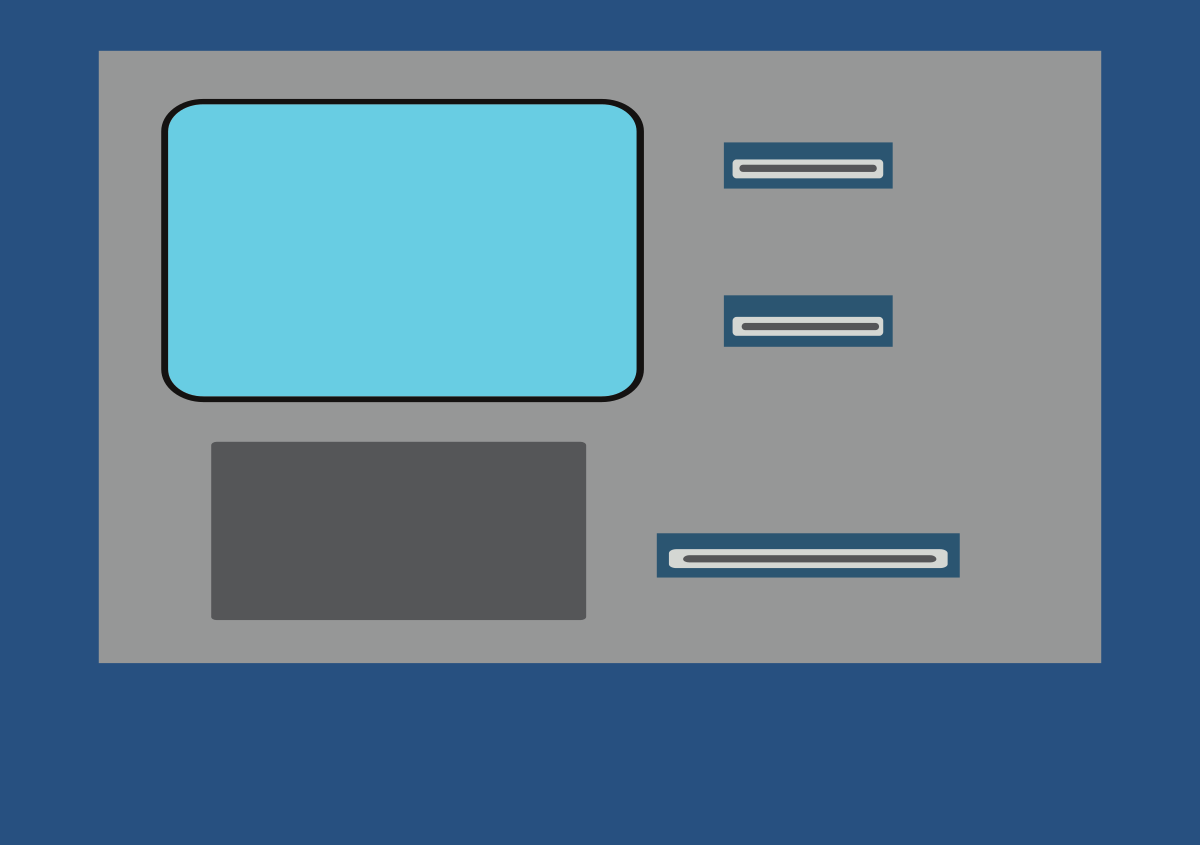
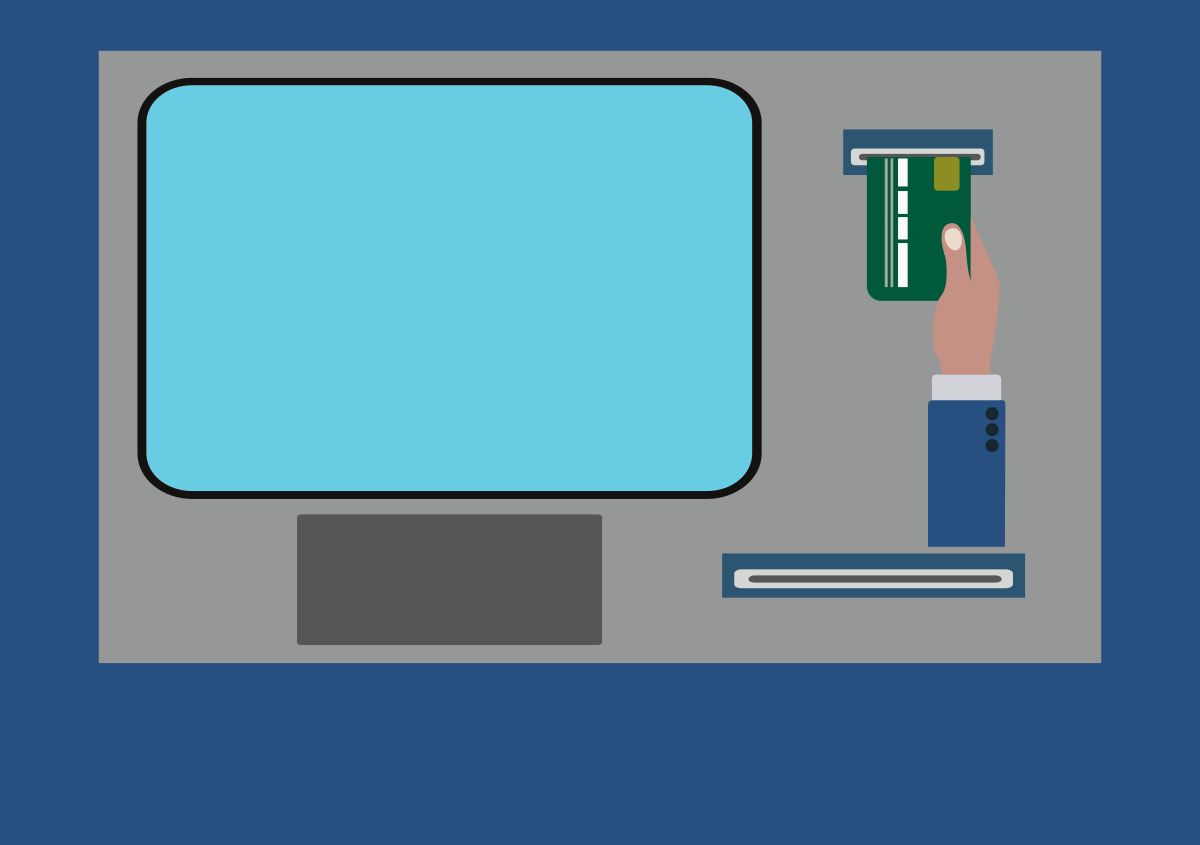
Finalizando cambios

Changed region(s): [[0.0925, 0.0923, 0.8633, 0.7692]]

diff --git a/css/activity.css b/css/activity.css
@@ -44,9 +44,9 @@ input[type=text]{
     background: white;
     border-radius: 0;
     border-style: solid;
-    border-color: blue;
+    border-color: #00583c;
     font-size: 18pt;
-    width: 130px;
+    width: 150px;
     padding: 0px !important; 
 }
 
@@ -167,12 +167,13 @@ button:hover{
 
 #cyd_cont{
     position: absolute;
-    width: 456px;
-    height: 280px;
-    top: 110px;
+    width: 550px;
+    height: 320px;
+    top: 80px;
     left: 172px;
-    text-align: center;
+    text-align: justify;
     color: white;
+    font-size: 20pt;
 }
 
 /*Botones*/
@@ -213,7 +214,7 @@ button:hover{
 }
 
 .btn_acep{
-    top: 720px;
+    top: 750px;
     left: 520px;
 }
 
@@ -372,13 +373,13 @@ button:hover{
 }
 
 #btn_cred{
-    top: 500px;
-    left: 240px;
+    top: 555px;
+    left: 315px;
 }
 
 #btn_deb{
-    top: 500px;
-    left: 440px;
+    top: 555px;
+    left: 460px;
 }
 
 .table{
@@ -386,7 +387,7 @@ button:hover{
     opacity: 0.8;
     border-color: blue;
     background: white;
-    width: 580px;
+    width: 640px;
     top: 180px;
     left: 300px;
 }
